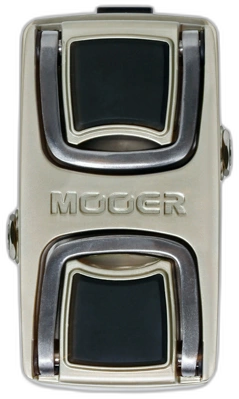
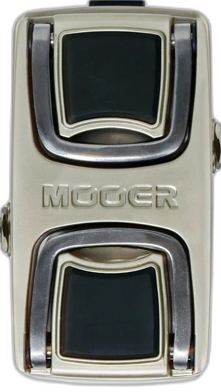
Update Mooer device image reference in data file and replace obsolete image with the new one.

diff --git a/src/data/devices-brands/mooer.ts b/src/data/devices-brands/mooer.ts
@@ -22,7 +22,7 @@ const mooerDevices: Omit<DeviceTemplate, "id" | "name" | "brand">[] = [
   { type: "multifx", model: "GE200 Plus", wdh: WDH_MOOER_GE200_PLUS, image: "ge200plus.png" },
   { type: "multifx", model: "GE250", wdh: WDH_MOOER_GE250, image: "ge-250.png" },
   { type: "multifx", model: "GE1000", wdh: WDH_MOOER_GE1000, image: "ge1000.png" },
-  { type: "pedal", model: "Expline", wdh: WDH_MOOER_EXPLINE, image: "expline.png" },
+  { type: "pedal", model: "Expline", wdh: WDH_MOOER_EXPLINE, image: "mooer-expline.png" },
   { type: "pedal", model: "GL100", wdh: WDH_MICRO_MINI, image: "gl100.png" },
   { type: "pedal", model: "GL200", wdh: WDH_MICRO_MINI, image: "gl200.png" },
   { type: "pedal", model: "Mini Pedal", wdh: WDH_MICRO_MINI, image: null },
